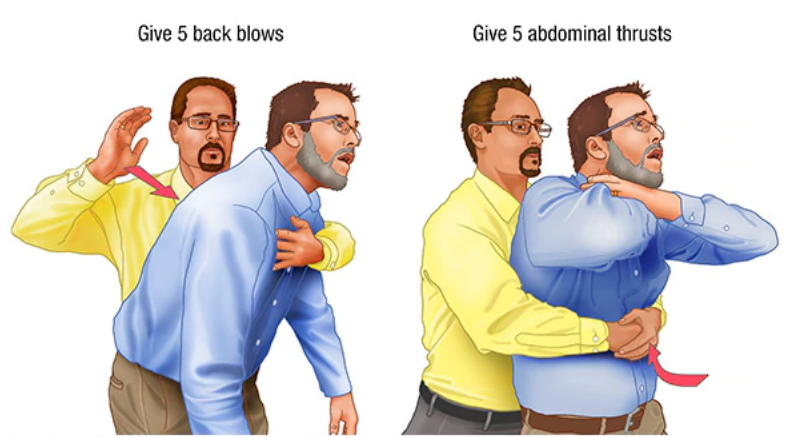
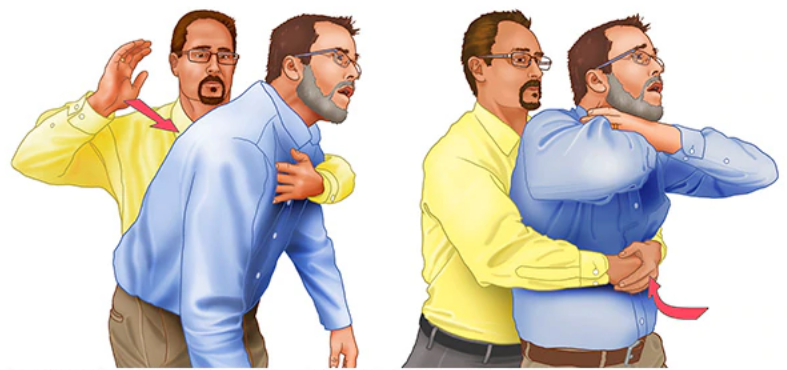
translate Heimlich instructions

diff --git a/cmd/emergency-details-printout/templates/printout.html b/cmd/emergency-details-printout/templates/printout.html
@@ -20,6 +20,10 @@
 	   margin: 0 .05em 0 .1em;
 	   vertical-align: -0.1em;
 	}
+
+	table.heimlich td {
+		text-align:  center;
+	}
 	</style>
 	<!--
 		because html2pdf uses wkhtml2pdf which doesn't support newest emojis
@@ -89,7 +93,13 @@
 	{{end}}
 
 	{{if .HeimlichPrint}}
-	<hr/><img src="https://joonas.fi/emergency-details-printout/assets/heimlich.png" />
+	<hr/>
+	<table class="heimlich"><tr>
+		<td><strong style="font-size: 1.35rem">{{.Tr5BackBlows}}</strong></td>
+		<td>&nbsp; &nbsp; &nbsp; &nbsp;</td>
+		<td><strong style="font-size: 1.35rem">{{.Tr5AbdominalThrusts}}</strong></td>
+	</tr></table>
+	<img src="https://joonas.fi/emergency-details-printout/assets/heimlich.png" />
 	{{end}}
 </center>
 

diff --git a/cmd/emergency-details-printout/translations.go b/cmd/emergency-details-printout/translations.go
@@ -12,6 +12,8 @@ type Translated struct {
 	TrMaintenanceCompany             string
 	TrVeterinarian                   string
 	TrInformationUpToDateChecked     string
+	Tr5BackBlows                     string
+	Tr5AbdominalThrusts              string
 	TrMadeWith                       string
 	TrTranslatorCredit               string // currently not shown
 }
@@ -33,6 +35,8 @@ var englishPhrases = Translated{
 	TrMaintenanceCompany:             "Maintenance company",
 	TrVeterinarian:                   "Veterinarian",
 	TrInformationUpToDateChecked:     "Information up-to-date checked",
+	Tr5BackBlows:                     "Give 5 back blows",
+	Tr5AbdominalThrusts:              "Give 5 abdominal thrusts",
 	TrMadeWith:                       "Create & customize your own: joonas.fi/emergency-details-printout",
 	TrTranslatorCredit:               "Joonas Loppi", // put your (the translatosr's) name, Twitter handle or website here
 }
@@ -51,6 +55,8 @@ var translations = map[string]Translated{
 		TrMaintenanceCompany:             "Huoltoyhtiö",
 		TrVeterinarian:                   "Eläinlääkäri",
 		TrInformationUpToDateChecked:     "Ajantasaisuus tarkistettu",
+		Tr5BackBlows:                     "Kämmenellä 5 kertaa lapaluiden väliin",
+		Tr5AbdominalThrusts:              "5 vetoa ylävatsan kohdalta",
 		TrMadeWith:                       "Tee & muokkaa itsellesi oma: joonas.fi/emergency-details-printout",
 		TrTranslatorCredit:               "Joonas Loppi",
 	},
